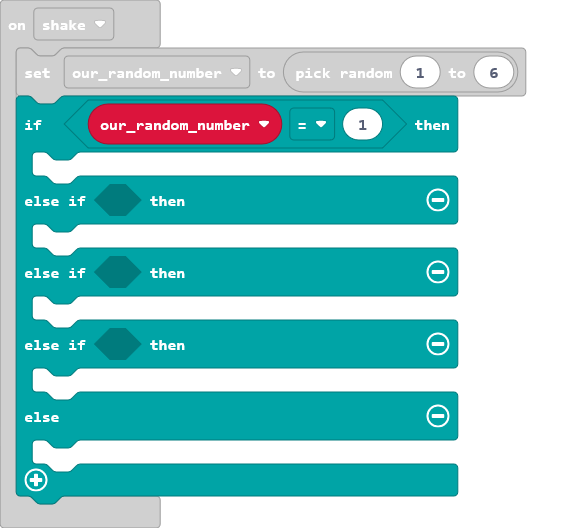
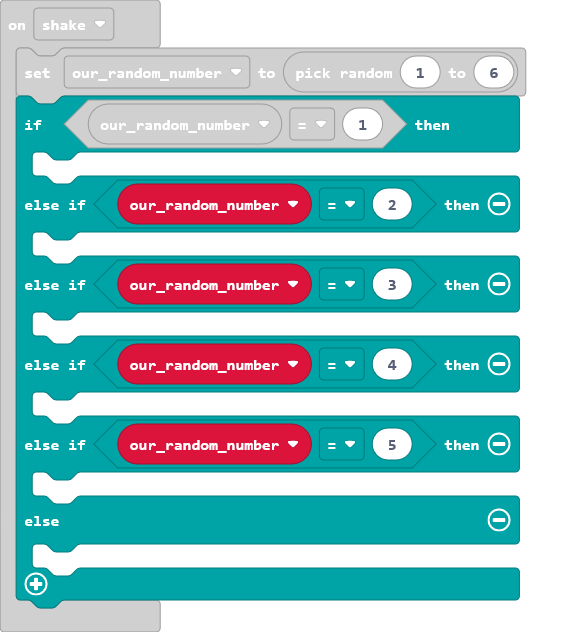
added compares

diff --git a/main.ts b/main.ts
@@ -3,11 +3,13 @@ input.onGesture(Gesture.Shake, function () {
     our_random_number = randint(1, 6)
     if (our_random_number == 1) {
     	
-    } else if (false) {
+    } else if (our_random_number == 2) {
     	
-    } else if (false) {
+    } else if (our_random_number == 3) {
     	
-    } else if (false) {
+    } else if (our_random_number == 4) {
+    	
+    } else if (our_random_number == 5) {
     	
     } else {
     	
